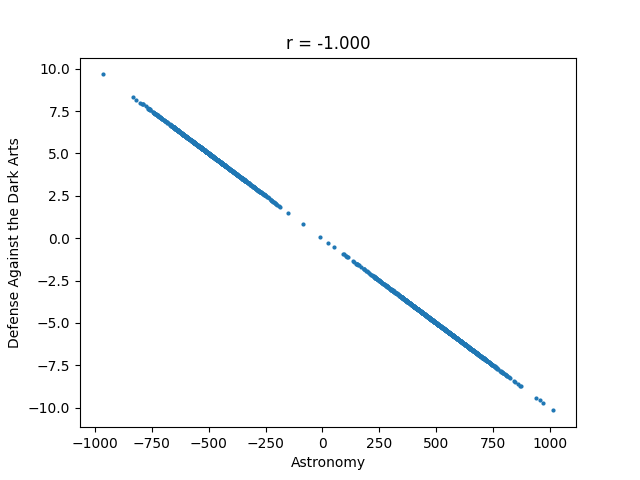
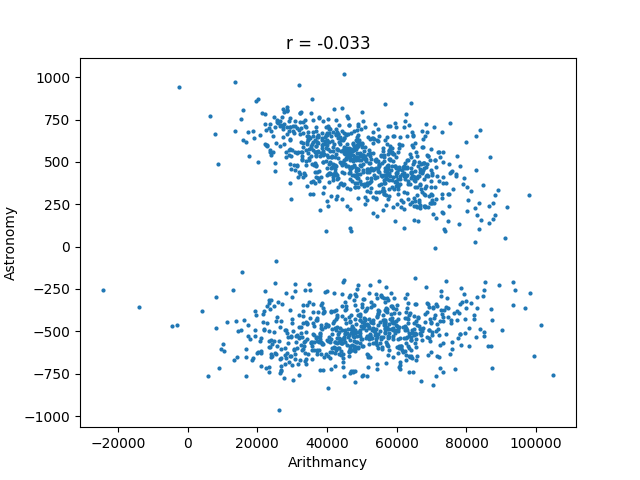
r

diff --git a/srcs/logreg_train.py b/srcs/logreg_train.py
@@ -1,0 +1,60 @@
+from describe import std, parser
+from histogram import COURSES, to_float
+from scatter_plot import paired, coefPearson
+import sys, math
+from itertools import combinations
+
+
+THRESHOLD_STANDARD_DEVIATION = 5
+THRESHOLD_COEF_PEARSON = 0.8
+
+def paser_to_unuseful_stuff(d):
+    coursesUse = COURSES
+    for course in coursesUse:
+        val = std(to_float(d[course]))
+        if (val < THRESHOLD_STANDARD_DEVIATION):
+            coursesUse.remove(course)
+    for a, b in combinations(COURSES, 2):
+        xs, ys = paired(d[a], d[b])
+        coef = coefPearson(xs, ys)
+        if abs(coef) > THRESHOLD_COEF_PEARSON:
+            coursesUse.remove(a or b)
+    return coursesUse
+
+def sigma(z):
+    return 1 / (1 + math.exp(-z))
+
+def prediction(bias, weights, arr, coursesUse):
+    for i, value in enumerate(arr):
+        biais += (value * weights[coursesUse[i]])
+    return sigma(biais)
+
+# [{}]
+
+def GradientDescent(filename):
+    d = parser(filename)
+    courseUse = paser_to_unuseful_stuff(d)
+    biais = 0
+    weights = {course: 0 for course in courseUse}
+    errors = []
+    pas = 0.1
+    for ligne in range(len(d["First Name"])):
+        arr = [ d[course][ligne] for course in courseUse]
+        prediction_value = prediction(biais, weights, arr, courseUse)
+        error = prediction - True
+        for course in courseUse:
+            error
+        for course in courseUse:
+            meanErrorNote = sum( err.get("note") * err.get("error") for err in errors) / len(errors)
+            meanError = sum( err.get("error") for err in errors) / len(errors)
+            weights[course] = (weights[course] - pas) * meanErrorNote
+            bias = (bias - pas) * meanError
+    print(weights, "and", bias)
+
+if __name__ == '__main__':
+    if len(sys.argv) != 2:
+        print("Usage: python describe.py <filename>")
+        sys.exit(1)
+    filename = sys.argv[1]
+    GradientDescent(filename)
+
